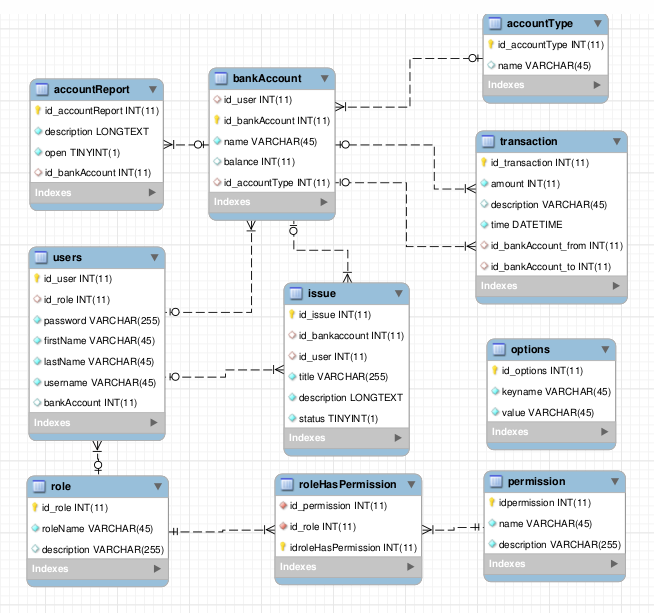
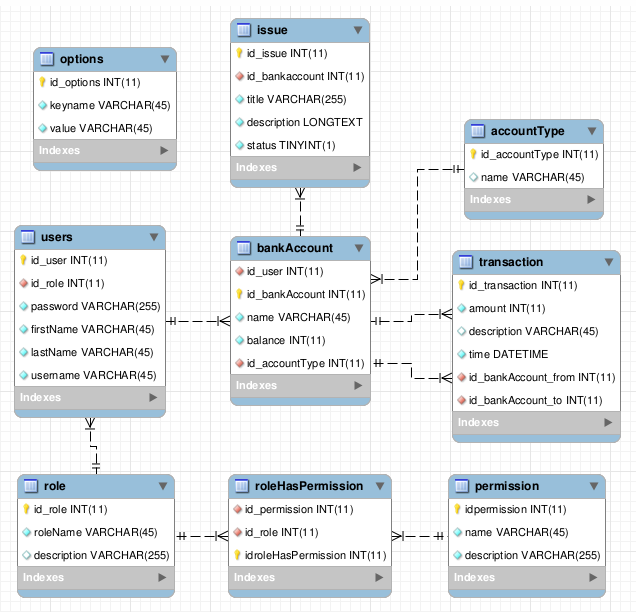
Added stuff about doctrine

diff --git a/technical_manual/technical_manual.html b/technical_manual/technical_manual.html
@@ -60,14 +60,86 @@
 		<div class="page-header">
 			<h1 id="Thing">COMP6205 Thing</h1>
 		</div>
-		<h2> <u>Doctrine</u> </h2>
+		<h2> <u>Doctrine - An ORM system</u> </h2>
+
+			<p>
+				Doctrine is one of the points we decided to learn about. It provides us with an object relational mapping in PHP.
+				This allows us to access the database using PHP objects and have Doctrine write the data back to a database.
+				An example of one of the mapping files is below.
+			</p>
+			<p>
+<pre class="prettyprint">/**
+ * @var string
+ *
+ * @Column(name="keyname", type="string", length=45, nullable=false)
+ */
+private $keyname;
+</pre>
+			</p>
+			<p>
+				Here we define a field in an object and the type of column it should be in the database.
+				Once we have designed our entities we can then run a Doctrine export script to create the database.
+				This also updates the database as we change the entities without losing data in the database.
+			</p>
+			<p>
+				We can create objects and use them and when we want them to be written to the database doctrine will do this.
+			</p>
+		<p>
+<pre class="prettyprint">
+$mainMode = new Options;
+$mainMode->setKeyname("maintenance_mode");
+$mainMode->setValue("false");
+
+$em->persist($mainMode);
+$em->flush();
+</pre>
+		</p>
+		<p>
+			$em is the entity manager and deals with all the objects that we wish to write to and get from the database.
+			By telling it to persist the new object it puts it in a queue to write back to the database and when flush() is called this is performed.
+		</p>
+
 			<h3> Server side validation (SQL Inject)</h3>
-			<h3> Database schema (ORM) </h3>
+
+			<p>
+				Doctrine handles SQL injection problems in many of its functions.
+				When you are using the objects in the above manner Doctrine will escape all user input for you.
+				It also provides prepared statements when you wish to use their own Doctrine Query Language (DQL) or SQL.
+			</p>
+
+			<h3>Generated Database schema (ORM) </h3>
+			<p>
+				Below is the entity relationship diagram generated from the Doctrine entities.
+				Doctrine does not rely on the order of the columns so the produced database structure does not have column order order.
+				This uses crows foot notation to demonstrate the foreign keys.
+				<ul>
+					<li>Fields that are the primary key for the table have a yellow key.</li>
+					<li>Fields that are a foreign key have a purple icon.</li>
+					<li>Fields that are required have a blue icon.</li>
+					<li>Fields that are not required have a white icon.</li>
+				</ul>
+			</p>
+
 			<p>
 				<img class="img-responsive" src="images/ER_diagram.png" />
 			</p>
 			<h3> Transaction consistency, ACID properties </h3>
-			<h3> Criticial evaluation </h3>
+
+			<p>
+				Doctrine has transaction handling already built in.
+				Each time an entity is modified or persisted then it is queued.
+				When you call flush on the Entity Manager then it will run the SQL operations in one transaction.
+				This gives you transaction consistency without having to do it yourself.
+			</p>
+
+			<h3>Criticial evaluation </h3>
+
+			<p>
+				Doctrine was very helpful for the transaction and SQL injection handling abilities and using objects in PHP makes it much easier than trying to keep a database and set of objects in sync.
+				Using the ORM in PHP means that you can use more OOP and use objects to relate to the actual tables.
+				In doing this we didnt have to write any SQL and only a small bit of DQL to do the more advanced parts of the website.
+			</p>
+
 		<h2> <u>Role based authentication</u> </h2>
 			<h3> Roles </h3>
 			<h3> Permissions </h3>
